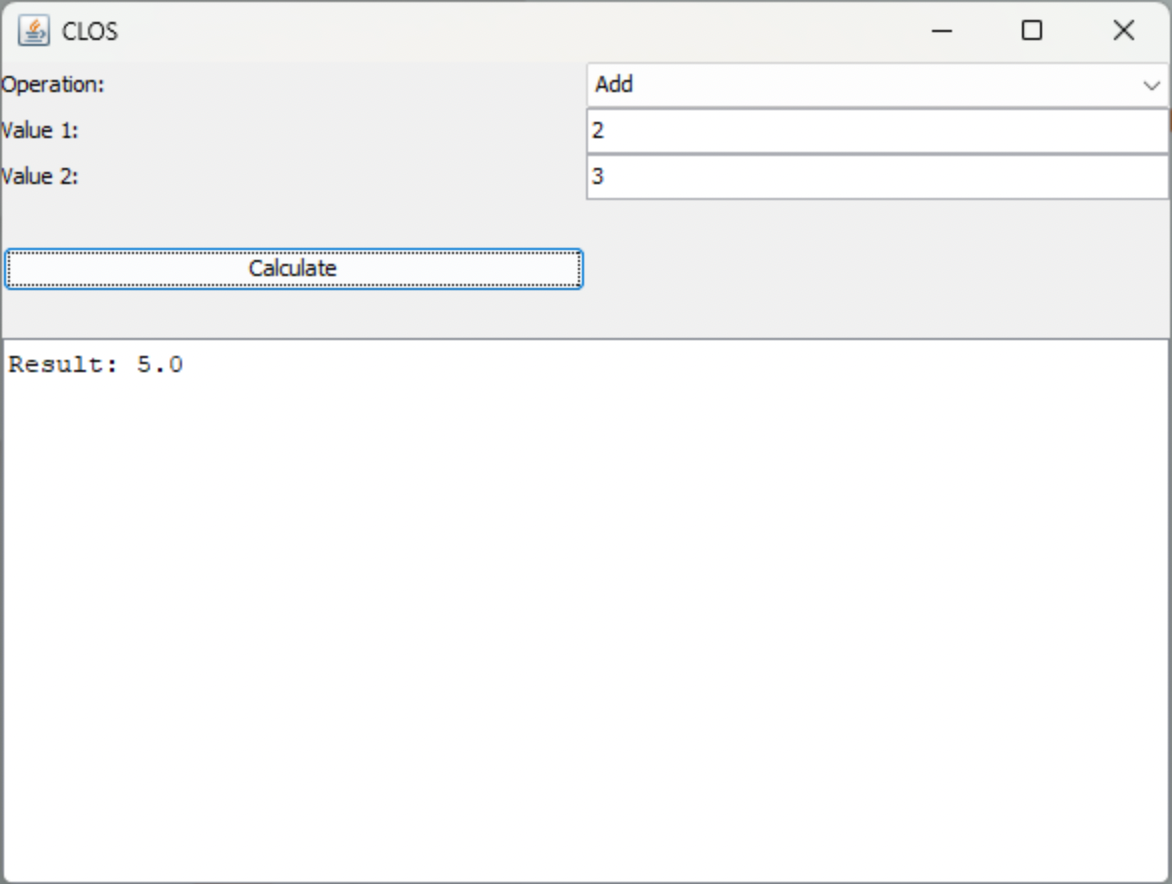
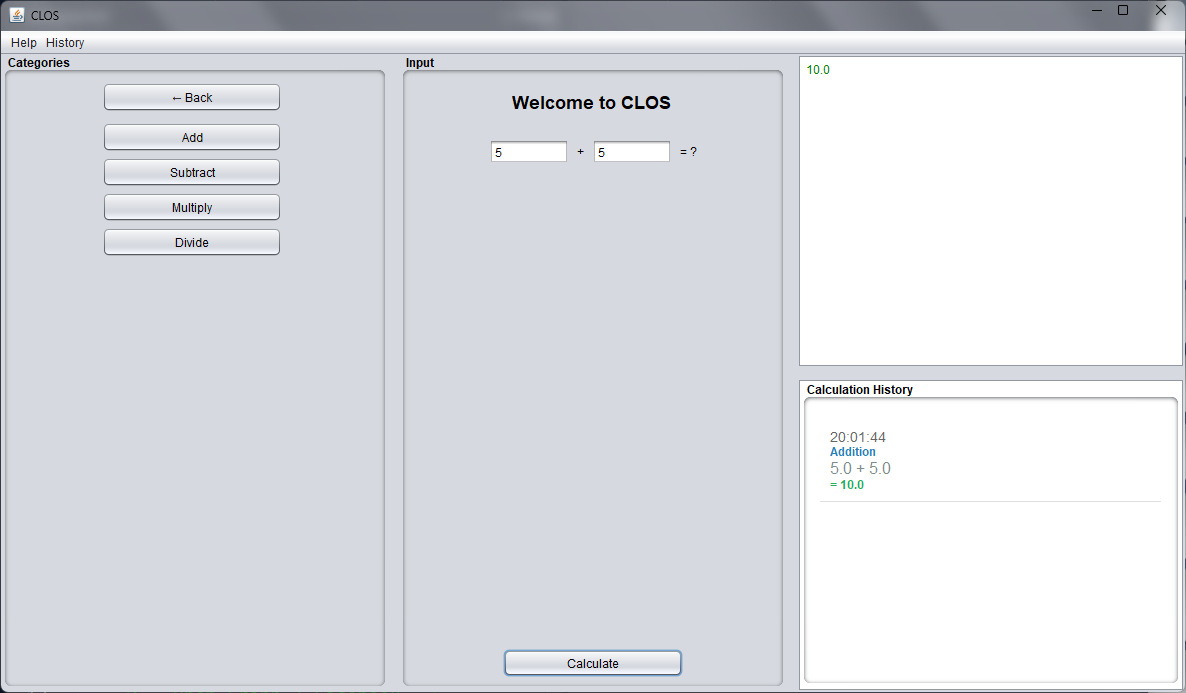
Updated for CLOS 0.13 release

diff --git a/download.html b/download.html
@@ -63,7 +63,6 @@
             <a class="navLink" href="index.html">Home</a>
             <a class="navLink" href="about.html">About</a>
             <a class="navLink" href="features.html">Features</a>
-            <a class="navLink" href="showcase.html">New Design</a>
             <a class="navLink" href="contact.html">Contact</a>
             <a class="navLink cta" href="download.html">Download</a>
         </div>
@@ -75,19 +74,26 @@
     </header>
     <main>
         <section class="download-section">
-            <h2>CLOS 0.12.1 - Make Em' Drawings Update</h2>
+            <h2>CLOS 0.13 - Brand New &#39Stache! Update</h2>
             <div class="download-links">
                 <p class="latest-tag">LATEST VERSION</p>
-                <p>Windows Executable: <a href="https://github.com/happysmaran/CLOS/releases/download/stable3/CLOS_Windows.exe" target="_blank">Download here</a></p>
+                <p>Windows Executable: <a href="https://github.com/happysmaran/CLOS/releases/download/stable4/CLOS_Windows.zip" target="_blank">Download here</a></p>
+                <p>macOS Executable: <a href="https://github.com/happysmaran/CLOS/releases/download/stable4/CLOS_Mac.zip" target="_blank">Download here</a></p>
                 <p>User Manual: TBA</p>
-                <h6>This version does not yet have a macOS release. Sorry!</h6>
+            </div>
+        </section>
+        <section class="download-section">
+            <h2>CLOS 0.12.1 - Make Em&#39 Drawings Update</h2>
+            <div class="download-links">
+                <p>Windows Executable: <a href="https://github.com/happysmaran/CLOS/releases/download/stable3/CLOS_Windows.exe" target="_blank">Download here</a></p>
+                <h6 class="red-text">This version no longer recieves support. Use version 0.13.0 or above instead.</h6>
             </div>
         </section>
         <section class="download-section">
             <h2>CLOS 0.12 - The GUI Update</h2>
             <div class="download-links">
                 <p>Windows Executable: <a href="https://github.com/happysmaran/CLOS/releases/download/guibeta/CLOS_Windows.exe" target="_blank">Download here</a></p>
-                <p>User Manual: TBA</p>
+                <h6 class="red-text">This version no longer recieves support. Use version 0.13.0 or above instead.</h6>
             </div>
         </section>
         <section class="download-section">
@@ -96,6 +102,7 @@
                 <p>Windows Executable: <a href="https://github.com/happysmaran/CLOS/releases/download/stable2/CLOS_Win.exe" target="_blank">Download here</a></p>
                 <p>macOS Executable: <a href="https://github.com/happysmaran/CLOS/releases/download/stable2/CLOS_Mac" target="_blank">Download Here</a></p>
                 <p>User Manual: <a href="https://github.com/happysmaran/CLOS/blob/main/CLOS%20User%20Manual.pdf" target="_blank">Download Here</a>
+                    <h6 class="red-text">This version no longer recieves support. Use version 0.13.0 or above instead.</h6>
         </section>
         <section class="download-section">
             <h2>CLOS 0.11.1 - Calculating Calculus Update</h2>
@@ -103,13 +110,14 @@
                 <p>Windows Executable: <a href="https://github.com/happysmaran/CLOS/releases/download/stable/CLOS_Win.exe" target="_blank">Download here</a></p>
                 <p>macOS Executable: <a href="https://github.com/happysmaran/CLOS/releases/download/stable/CLOS_Mac" target="_blank">Download Here</a></p>
                 <p>User Manual: <a href="https://github.com/happysmaran/CLOS/blob/main/CLOS%20User%20Manual.pdf" target="_blank">Download Here</a>
+                    <h6 class="red-text">This version no longer recieves support. Use version 0.13.0 or above instead.</h6>
         </section>
         <section class="download-section">
             <h2>CLOS 0.10.1 - Trig, Trig, Trig!</h2>
             <div class="download-links">
                 <p>macOS Executable: <a href="https://github.com/happysmaran/CLOS/releases/download/0.10.1/CLOS" target="_blank">Download Here</a></p>
                 <p>User Manual: <a href="https://github.com/happysmaran/CLOS/blob/main/CLOS%20User%20Manual.pdf" target="_blank">Download Here</a>
-                <h6 class="red-text">This version no longer recieves support. Use version 0.11.1 or above instead.</h6>
+                <h6 class="red-text">This version no longer recieves support. Use version 0.13.0 or above instead.</h6>
         </section>
     </main>
     <footer class="footer">

diff --git a/features.html b/features.html
@@ -40,7 +40,6 @@
             <a class="navLink" href="index.html">Home</a>
             <a class="navLink" href="about.html">About</a>
             <a class="navLink" href="features.html">Features</a>
-            <a class="navLink" href="showcase.html">New Design</a>
             <a class="navLink" href="contact.html">Contact</a>
             <a class="navLink cta" href="download.html">Download</a>
         </div>
@@ -71,19 +70,23 @@
             </div>
             <div class="feature-item bg5">
                 <h3>Derivative/Integral Solver</h3>
-                <img src="images/features/demo_derivative.png" alt="Indefinite derivative solver demonstration">
+                <img src="images/features/demo_derivative.png" alt="Definite derivative solver demonstration">
             </div>
             <div class="feature-item bg3">
                 <h3>Miscellaneous Math Functions</h3>
-                <img src="images/features/demo_factorial.png" alt="Factorial demonstration">
+                <img src="images/features/demo_degrad.png" alt="Degree to Radian conversion demonstration">
             </div>
             <div class="feature-item bg1">
-                <h3>Spreadsheet (Beta)</h3>
+                <h3>Spreadsheet</h3>
                 <img src="images/features/demo_spreadsheet.png" alt="Spreadsheet demonstration">
             </div>
             <div class="feature-item bg5">
-                <h3>3D Rendering [EXPERIMENTAL]</h3>
-                <img src="images/features/demo_3d.png" alt="3D Cube demonstration">
+                <h3>3D Graphing (Beta)</h3>
+                <img src="images/features/demo_3d.png" alt="3D graphing demonstration">
+            </div>
+            <div class="feature-item bg2">
+                <h3>In-built Help Guides</h3>
+                <img src="images/features/demo_helpguides.png" alt="In-built help guides">
             </div>
         </div>
     </section>

diff --git a/index.html b/index.html
@@ -9,7 +9,6 @@
     <meta name="viewport" content="width=device-width, initial-scale=1.0">
     
     <!-- Open Graph / Facebook -->
-    <!-- SHA256: e15b7451e3f813e5508002d6b44379a322da8b459a24bcd9ba9d3b615418b502 -->
     <meta property="og:type" content="website">
     <meta property="og:url" content="https://clos-mathematical-tool.replit.app/">
     <meta property="og:title" content="CLOS - Advanced Mathematical Calculator & Graphing Tool">
@@ -65,7 +64,6 @@
             <a class="navLink" href="index.html">Home</a>
             <a class="navLink" href="about.html">About</a>
             <a class="navLink" href="features.html">Features</a>
-            <a class="navLink" href="showcase.html">New Design</a>
             <a class="navLink" href="contact.html">Contact</a>
             <a class="navLink cta" href="download.html">Download</a>
         </div>

diff --git a/about.html b/about.html
@@ -40,7 +40,6 @@
             <a class="navLink" href="index.html">Home</a>
             <a class="navLink" href="about.html">About</a>
             <a class="navLink" href="features.html">Features</a>
-            <a class="navLink" href="showcase.html">New Design</a>
             <a class="navLink" href="contact.html">Contact</a>
             <a class="navLink cta" href="download.html">Download</a>
         </div>

diff --git a/contact.html b/contact.html
@@ -40,7 +40,6 @@
             <a class="navLink" href="index.html">Home</a>
             <a class="navLink" href="about.html">About</a>
             <a class="navLink" href="features.html">Features</a>
-            <a class="navLink" href="showcase.html">New Design</a>
             <a class="navLink" href="contact.html">Contact</a>
             <a class="navLink cta" href="download.html">Download</a>
         </div>
